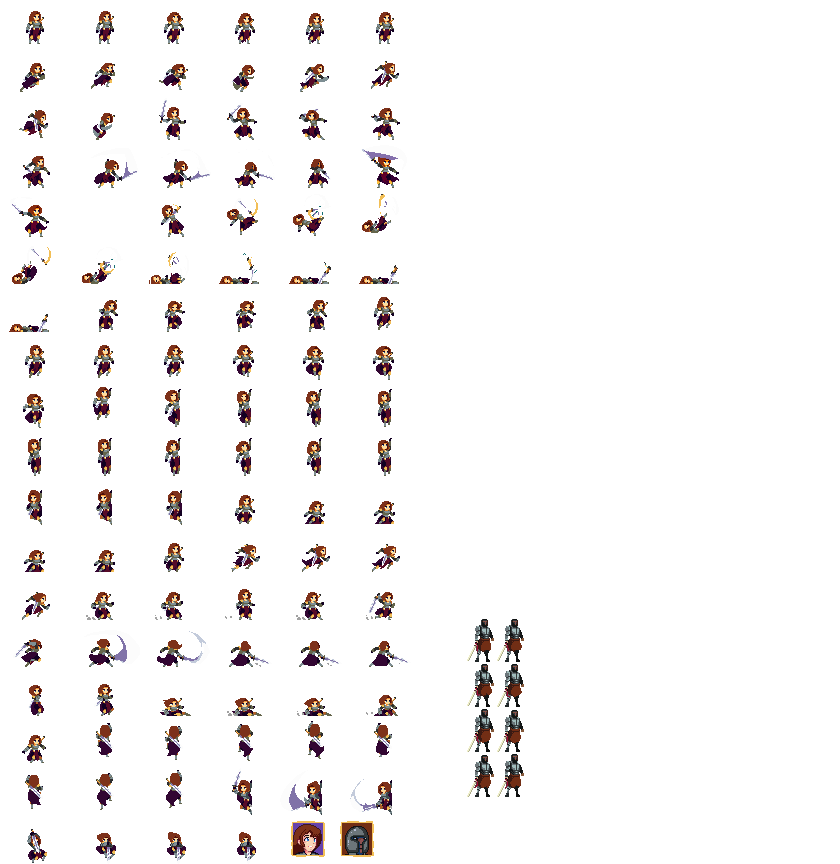
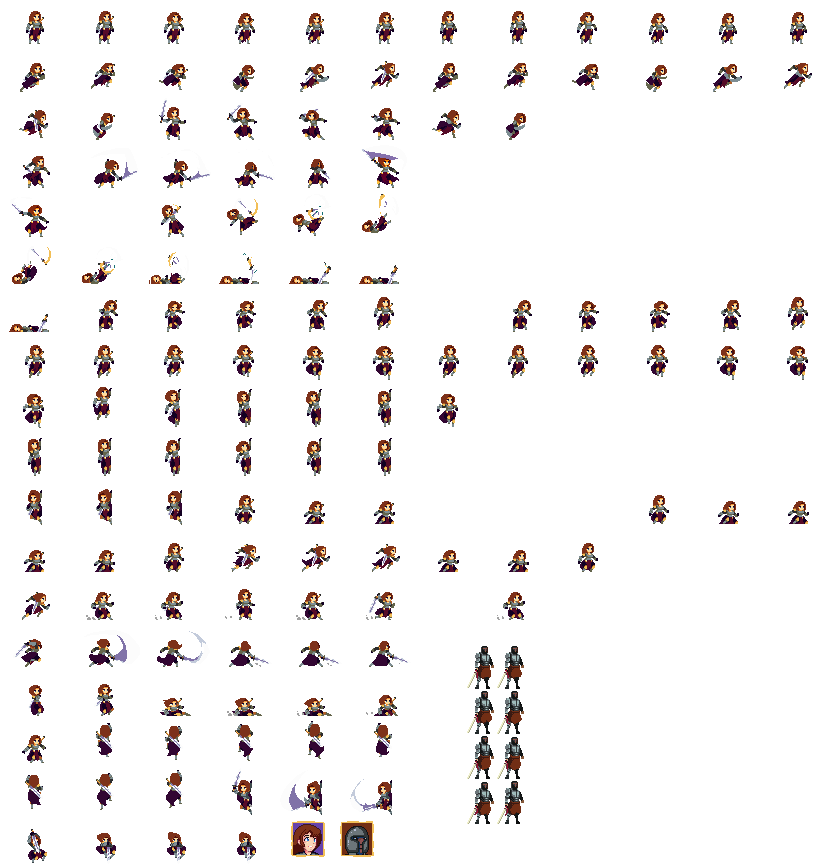
Warrior swordless sprite

diff --git a/src/scene_jumpman.cpp b/src/scene_jumpman.cpp
@@ -448,7 +448,7 @@ void JumpScene::EnterScene()
 		raising_lava->SetRaiseSpeed(Lava::kFastRaiseSpeed);
 	});
 
-	new Trigger(Tiled::Triggers::single_trigger_leafs, [this](Trigger* t) {
+	new Trigger(Tiled::Triggers::single_trigger_leafs, [](Trigger* t) {
 		Particles::leafs.pos = JumpMan::instance()->pos;
 		Particles::leafs.AddParticles(17);
 		Particles::leafs.FlipX();
@@ -916,19 +916,19 @@ void JumpScene::Update(float dt)
 			//TODO: Pickup animation or popup or something
 			switch(g->skill) {
 				case Skill::WALLJUMP:
-					rotoText.ShowMessage("You remembered\nhow to walljump");
+					rotoText.ShowMessage("Walljumperino");
 					break;
 				case Skill::ATTACK:
-					rotoText.ShowMessage("You remembered\nhow to fight!");
+					rotoText.ShowMessage("Sworderino!");
 					break;
 				case Skill::DIVE:
-					rotoText.ShowMessage("You remembered\nhow to stab down");
+					rotoText.ShowMessage("Stab downerino!");
 					break;
 				case Skill::DASH:
-					rotoText.ShowMessage("You remembered\nhow to dash");
+					rotoText.ShowMessage("Dasherino");
 					break;
 				case Skill::GUN:
-					rotoText.ShowMessage("You remembered\nyour Big F. Gun");
+					rotoText.ShowMessage("Big F. Gun");
 					break;
 				case Skill::BREAK:
 					rotoText.ShowMessage("Your sword can\nnow break stuff!");

diff --git a/src/anim_lib.h b/src/anim_lib.h
@@ -283,14 +283,14 @@ namespace AnimLib {
 	};
 
 	constexpr const AnimationFrame NPC_IDLE[] = {
-	{ { 467, 617 + 0 * 45, 30, 45 }, .1f },
-	{ { 497, 617 + 0 * 45, 30, 45}, .1f },
-	{ { 467, 617 + 1 * 45, 30, 45}, .1f },
-	{ { 497, 617 + 1 * 45, 30, 45}, .1f },
-	{ { 467, 617 + 2 * 45, 30, 45}, .1f },
-	{ { 497, 617 + 2 * 45, 30, 45}, .1f },
-	{ { 467, 617 + 3 * 45, 30, 45}, .1f },
-	{ { 497, 617 + 3 * 45, 30, 45}, .1f },
+		{ { 467, 644 + 0 * 45, 30, 45 }, .1f },
+		{ { 497, 644 + 0 * 45, 30, 45}, .1f },
+		{ { 467, 644 + 1 * 45, 30, 45}, .1f },
+		{ { 497, 644 + 1 * 45, 30, 45}, .1f },
+		{ { 467, 644 + 2 * 45, 30, 45}, .1f },
+		{ { 497, 644 + 2 * 45, 30, 45}, .1f },
+		{ { 467, 644 + 3 * 45, 30, 45}, .1f },
+		{ { 497, 644 + 3 * 45, 30, 45}, .1f },
 	};
 
 	const constexpr SheetFrameCalculator ooySheet({ 30, 30 }, 15, { 0, 390 });

diff --git a/src/jumpman.cpp b/src/jumpman.cpp
@@ -89,6 +89,7 @@ const vec kSwordAttackWallSlideOffset = vec(-16.f, -15.5f);
 // Sprite
 const vec kStandingSize = vec(13, 32);
 const vec kCrouchedSize = vec(13, 22);
+const int kOffsetSwordlessSpritesheet = 413;
 
 void DestroyTilesWithSword(const CircleBounds& e) {
 	GaemTileMap* map = GaemTileMap::instance();
@@ -825,9 +826,14 @@ void JumpMan::Draw() const {
 		Assets::tintShader.SetUniform("flashColor", 1.f, 0.f, 0.f, 0.7f);
 	}
 
+	GPU_Rect rect = anim.CurrentFrameRect();
+	if (!SkillTree::instance()->IsEnabled(Skill::ATTACK)) {
+		rect.x += kOffsetSwordlessSpritesheet;
+	}
+
 	Window::Draw(Assets::warriorTexture, pos)
 		.withOrigin(AnimLib::warriorSheet.sprite_w/2, AnimLib::warriorSheet.sprite_h-4)
-		.withRect(anim.CurrentFrameRect())
+		.withRect(rect)
 		.withScale(lookingLeft ? -1.f : 1.f, 1.f);
 
 	//BFG
